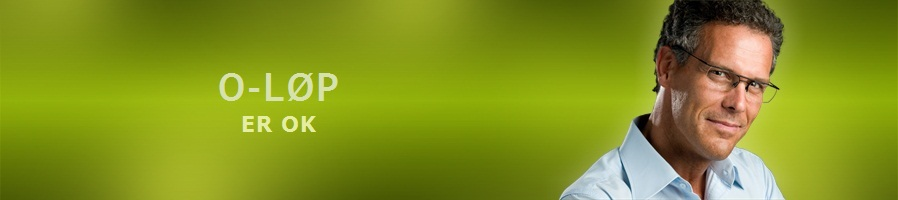
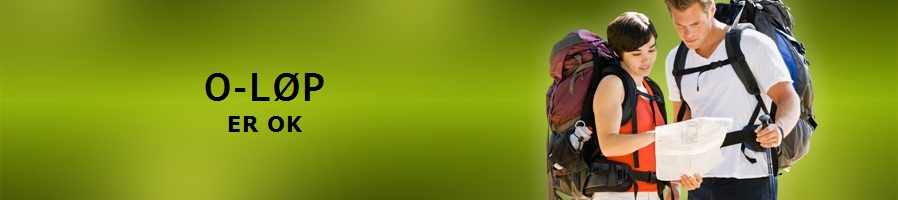
artikler

Changed region(s): [[0.5924, 0.0, 0.9354, 1.0], [0.2183, 0.36, 0.3742, 0.51], [0.2494, 0.57, 0.3742, 0.66]]

diff --git a/Web/WebContent/Styles/stylesheet.css b/Web/WebContent/Styles/stylesheet.css
@@ -17,8 +17,8 @@
 		background-color: #A5BD4C;
 		background-image: url('images/page_t.jpg');
 		background-repeat: repeat;
-		background-attachment: scroll;
-		background-position: center center;
+		/*background-attachment: scroll;
+		background-position: center center;*/
 	}
 	h1,h2,h3,h4,h5,h6,h1 a,h2 a,h3 a,h4 a,h5 a,h6 a
 h1 a:hover,h2 a:hover,h3 a:hover,h4 a:hover,h5 a:hover,h6 a:hover
@@ -159,10 +159,10 @@ h1 a:visited,h2 a:visited,h3 a:visited,h4 a:visited,h5 a:visited,h6 a:visited,.p
 		/*padding-bottom: 100px;*/
 	}
 	.nav {
-	margin-top: 10px;
-		position: relative;
+		margin-top: 10px; position : relative;
 		height: 39px;
 		z-index: 100;
+		position: relative;
 	}
 	.menu-extra1 {
 		position: relative;
@@ -218,7 +218,6 @@ h1 a:visited,h2 a:visited,h3 a:visited,h4 a:visited,h5 a:visited,h6 a:visited,.p
 		text-decoration: none;
 		margin-left: 4px;
 		margin-right: 4px;
-		
 	}
 	.menu ul li {
 		list-style-type: none;
@@ -434,7 +433,7 @@ h1 a:visited,h2 a:visited,h3 a:visited,h4 a:visited,h5 a:visited,h6 a:visited,.p
 			100%); /* IE10+ */
 		background: linear-gradient(to bottom, #bfd255 0%, #8eb92a 50%, #72aa00 51%, #9ecb2d
 			100%); /* W3C */
-		filter: progid:DXImageTransform.Microsoft.gradient(               startColorstr='#bfd255',
+		filter: progid:DXImageTransform.Microsoft.gradient(                startColorstr='#bfd255',
 			endColorstr='#9ecb2d', GradientType=0 ); /* IE6-9 */
 		color: #efefef;
 		border-bottom: 1px #003300 solid;
@@ -474,7 +473,9 @@ h1 a:visited,h2 a:visited,h3 a:visited,h4 a:visited,h5 a:visited,h6 a:visited,.p
 		padding-top: 20px;
 	}
 	.article {
-		border: 1px solid #E7E7E7;
+		font-family: "Lucida Sans", "Lucida Sans Regular", "Lucida Grande",
+			"Lucida Sans Unicode", Geneva, Verdana, sans-serif;
+		border: 2px solid #E7E7E7;
 		border-left-color: #D3D3D3;
 		border-right-color: #D3D3D3;
 		border-top-left-radius: 5px;
@@ -485,12 +486,14 @@ h1 a:visited,h2 a:visited,h3 a:visited,h4 a:visited,h5 a:visited,h6 a:visited,.p
 		margin: 10px;
 	}
 	.article_head {
-		
+		background-color: #EEEFE6;
+		color: #3F412A;
 	}
 	.article_title {
-		
+		color: #1A1E0B;
 	}
 	.article_content {
-		
+		color: #181910;
+		margin: 10px;
 	}
 }

diff --git a/Web/src/no/orientering/controllers/HomeController.java b/Web/src/no/orientering/controllers/HomeController.java
@@ -1,11 +1,17 @@
 package no.orientering.controllers;
 
 import java.io.IOException;
+import java.util.List;
+
+import javax.servlet.RequestDispatcher;
 import javax.servlet.ServletException;
 import javax.servlet.annotation.WebServlet;
 import javax.servlet.http.HttpServlet;
 import javax.servlet.http.HttpServletRequest;
 import javax.servlet.http.HttpServletResponse;
+
+import no.orientering.DAO.jdbc.ArticleDAO;
+import no.orientering.models.Article;
 
 /**
  * Servlet implementation class HomeController
@@ -13,26 +19,39 @@ import javax.servlet.http.HttpServletResponse;
 @WebServlet("/HomeController")
 public class HomeController extends HttpServlet {
 	private static final long serialVersionUID = 1L;
-       
-    /**
-     * @see HttpServlet#HttpServlet()
-     */
-    public HomeController() {
-        super();
-        // TODO Auto-generated constructor stub
-    }
 
 	/**
-	 * @see HttpServlet#doGet(HttpServletRequest request, HttpServletResponse response)
+	 * @see HttpServlet#HttpServlet()
 	 */
-	protected void doGet(HttpServletRequest request, HttpServletResponse response) throws ServletException, IOException {
-		// TODO Auto-generated method stub
+	public HomeController() {
+		super();
+		// TODO Auto-generated constructor stub
 	}
 
 	/**
-	 * @see HttpServlet#doPost(HttpServletRequest request, HttpServletResponse response)
+	 * @see HttpServlet#doGet(HttpServletRequest request, HttpServletResponse
+	 *      response)
 	 */
-	protected void doPost(HttpServletRequest request, HttpServletResponse response) throws ServletException, IOException {
+	protected void doGet(HttpServletRequest request,
+			HttpServletResponse response) throws ServletException, IOException {
+		// TODO Auto-generated method stub
+		String URL = "WEB-INF/default.jsp";
+
+		ArticleDAO ad = new ArticleDAO();
+		List<Article> artlist = ad.getArticles();
+		
+		request.setAttribute("articles", artlist);
+		RequestDispatcher dispatcher = request.getRequestDispatcher(URL);
+		dispatcher.forward(request, response);
+
+	}
+
+	/**
+	 * @see HttpServlet#doPost(HttpServletRequest request, HttpServletResponse
+	 *      response)
+	 */
+	protected void doPost(HttpServletRequest request,
+			HttpServletResponse response) throws ServletException, IOException {
 		// TODO Auto-generated method stub
 	}
 
